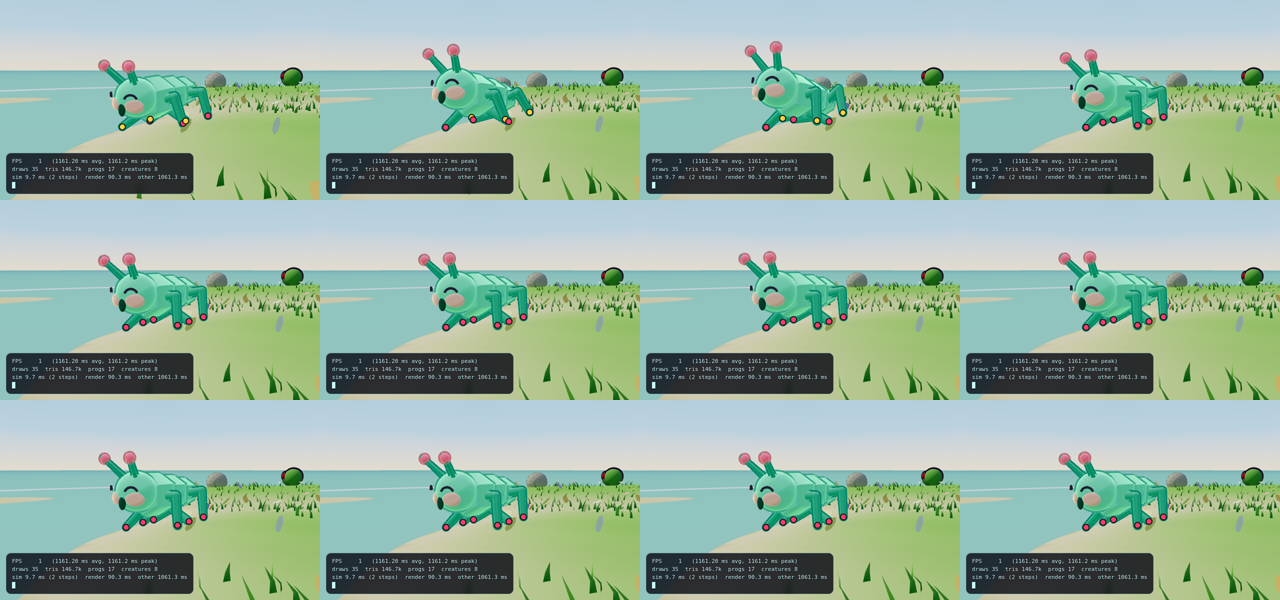
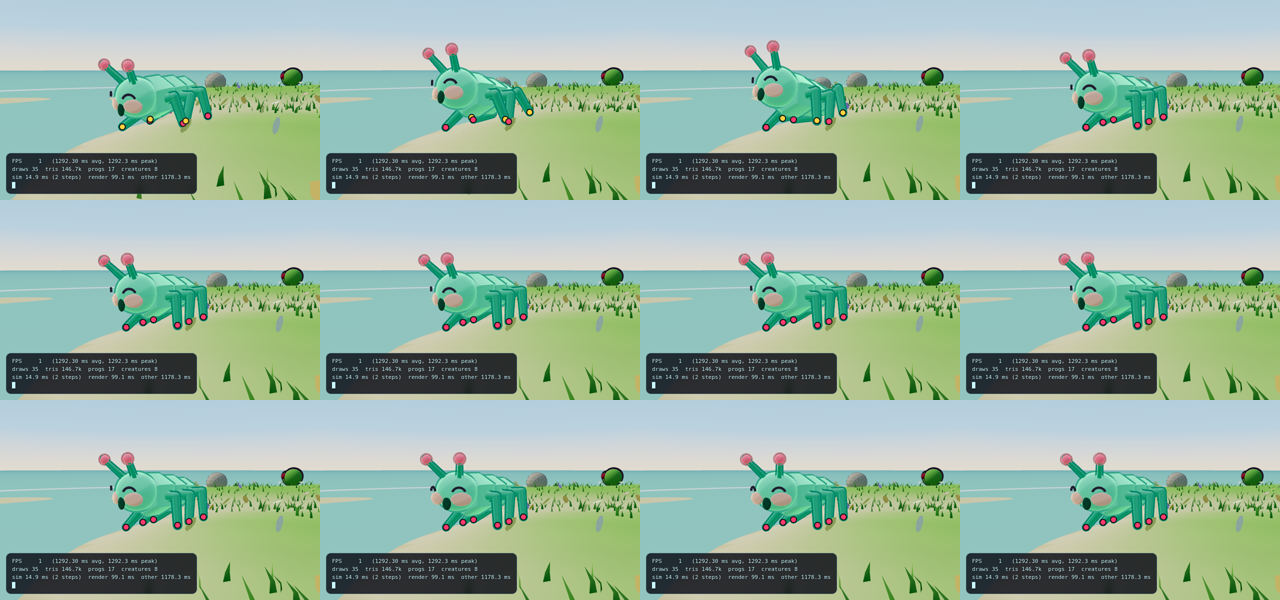
watch: 2026-10-02 13:31:47

diff --git a/watch/REPORT.md b/watch/REPORT.md
@@ -1,67 +1,67 @@
 ```
 # WATCH REPORT
-date 2026-10-02T05:27:36.301Z
-badge build v14 · 2026-10-02 09:26
+date 2026-10-02T09:30:46.164Z
+badge build v15 · 2026-10-02 13:29
 
 ## PEDESTAL
   quat 8.88e-16 pos 0.00e+0 -> PASS
 
 ## STRAIGHT WALK PROBE (8 s each)
-  PIP    slip 3.23 cm | overstretch 5/480 | speed 0.873 | freq 3 Hz
-  MOCHI  slip 7.98 cm | overstretch 48/480 | speed 0.875 | freq 3 Hz
+  PIP    slip 3.56 cm | overstretch 8/480 | speed 0.873 | freq 3 Hz
+  MOCHI  slip 8.84 cm | overstretch 43/480 | speed 0.875 | freq 3 Hz
   BOP    slip 0.00 cm | overstretch 0/480 | speed 2.762 | freq 2.5 Hz
-  ZIK    slip 0.18 cm | overstretch 1/480 | speed 1.128 | freq 3 Hz
+  ZIK    slip 0.20 cm | overstretch 0/480 | speed 1.128 | freq 3 Hz
 
 ## JOINT PROBE (20 s)
-  PIP    185.20 rad/s on hip_r [FORCED STEP]
-  MOCHI  187.12 rad/s on hip_bl [FORCED STEP]
-  ZIK    186.94 rad/s on hip_rear_l [FORCED STEP]
+  PIP    40.00 rad/s on ankle_r [FORCED STEP]
+  MOCHI  40.00 rad/s on knee_bl [FORCED STEP]
+  ZIK    40.00 rad/s on hip_mid_r [FORCED STEP]
 
 ## FREE-RUNNING WORLD (30 s, all creatures, real behaviour)
   creatures 8 | overlap frames 0/900 | closest pair 1.20x personal space
-  PIP    lifts: beat 79 reach 34 strain 92 catch-up 38 | max planted IK miss 10.27 cm | crouch 4.6 cm
-  MOCHI  lifts: beat 22 reach 41 strain 84 catch-up 92 | max planted IK miss 5.94 cm | crouch 4.1 cm
+  PIP    lifts: beat 85 reach 26 strain 112 catch-up 32 | max planted IK miss 12.34 cm | crouch 10.2 cm
+  MOCHI  lifts: beat 21 reach 34 strain 89 catch-up 80 | max planted IK miss 9.07 cm | crouch 4.8 cm
   BOP    lifts: beat 0 reach 0 strain 0 catch-up 0 | max planted IK miss 0.00 cm | crouch 0.0 cm
-  ZIK    lifts: beat 226 reach 63 strain 157 catch-up 86 | max planted IK miss 5.94 cm | crouch 1.4 cm
+  ZIK    lifts: beat 225 reach 54 strain 153 catch-up 66 | max planted IK miss 5.62 cm | crouch 1.5 cm
 
 ## SLIP FORENSICS (stances that slid > 1 cm)
-  PIP    n 70 | in action 100% | one-frame pop 100% | ended by forced lift 100% | max hip-foot/reach 0.96 | max IK miss 10.3 cm | max post-limiter miss 10.3 cm
-  MOCHI  n 61 | in action 100% | one-frame pop 92% | ended by forced lift 97% | max hip-foot/reach 0.94 | max IK miss 5.9 cm | max post-limiter miss 5.9 cm
-  ZIK    n 30 | in action 97% | one-frame pop 100% | ended by forced lift 97% | max hip-foot/reach 0.98 | max IK miss 5.9 cm | max post-limiter miss 14.1 cm
-    ZIK leg 5: slip 21.6 jump 21.5 cm | reach 0.91 | IK 0.8 post 0.8 cm | ACTION | beat
-    ZIK leg 3: slip 14.0 jump 14.6 cm | reach 0.95 | IK 5.9 post 14.1 cm | ACTION | forced
-    ZIK leg 0: slip 12.2 jump 11.8 cm | reach 0.86 | IK 0.6 post 0.6 cm | ACTION | forced
-    PIP leg 1: slip 10.1 jump 10.1 cm | reach 0.91 | IK 10.3 post 10.3 cm | ACTION | forced
-    ZIK leg 3: slip 9.9 jump 9.9 cm | reach 0.79 | IK 5.6 post 9.9 cm | ACTION | forced
-    ZIK leg 5: slip 8.7 jump 8.7 cm | reach 0.72 | IK 0.2 post 0.2 cm | ACTION | forced
-    PIP leg 0: slip 8.3 jump 8.1 cm | reach 0.79 | IK 8.7 post 8.7 cm | ACTION | forced
-    PIP leg 0: slip 8.3 jump 8.1 cm | reach 0.79 | IK 8.7 post 8.7 cm | ACTION | forced
-  PIP    LEG joint max 62.6 rad/s on hip_l(plant) | leg frames >20: 110
-  MOCHI  LEG joint max 93.6 rad/s on hip_br(plant) | leg frames >20: 170
-  ZIK    LEG joint max 87.4 rad/s on hip_mid_l(plant) | leg frames >20: 169
-  PIP    stances 291 | slip avg 0.72 cm worst 10.09 cm | stances >1cm 70 | max joint 90.8 rad/s on body | frames >20 rad/s 103 | moving 48%
-  MOCHI  stances 348 | slip avg 0.47 cm worst 7.82 cm | stances >1cm 61 | max joint 94.2 rad/s on hip_br | frames >20 rad/s 91 | moving 18%
-  BOP    stances 0 | slip avg 0.00 cm worst 0.00 cm | stances >1cm 0 | max joint 13.5 rad/s on head | frames >20 rad/s 0 | moving 41%
-  ZIK    stances 659 | slip avg 0.35 cm worst 21.62 cm | stances >1cm 30 | max joint 93.6 rad/s on hip_rear_r | frames >20 rad/s 63 | moving 40%
+  PIP    n 86 | in action 100% | one-frame pop 100% | ended by forced lift 100% | max hip-foot/reach 0.95 | max IK miss 12.3 cm | max post-limiter miss 12.3 cm
+  MOCHI  n 58 | in action 100% | one-frame pop 93% | ended by forced lift 100% | max hip-foot/reach 0.95 | max IK miss 9.1 cm | max post-limiter miss 9.1 cm
+  ZIK    n 28 | in action 96% | one-frame pop 100% | ended by forced lift 100% | max hip-foot/reach 0.99 | max IK miss 5.6 cm | max post-limiter miss 13.7 cm
+    ZIK leg 4: slip 13.5 jump 13.7 cm | reach 0.91 | IK 4.8 post 13.7 cm | ACTION | forced
+    PIP leg 1: slip 11.9 jump 11.9 cm | reach 0.93 | IK 12.3 post 12.3 cm | ACTION | forced
+    ZIK leg 2: slip 10.8 jump 11.3 cm | reach 0.91 | IK 5.6 post 10.8 cm | ACTION | forced
+    PIP leg 0: slip 8.7 jump 8.6 cm | reach 0.82 | IK 8.8 post 8.8 cm | ACTION | forced
+    MOCHI leg 3: slip 8.7 jump 7.8 cm | reach 0.92 | IK 9.1 post 9.1 cm | ACTION | forced
+    PIP leg 1: slip 6.9 jump 6.9 cm | reach 0.88 | IK 7.2 post 7.2 cm | ACTION | forced
+    MOCHI leg 2: slip 6.8 jump 6.3 cm | reach 0.92 | IK 7.0 post 7.0 cm | ACTION | forced
+    PIP leg 0: slip 6.5 jump 5.8 cm | reach 0.90 | IK 6.8 post 6.8 cm | ACTION | forced
+  PIP    LEG joint max 38.0 rad/s on knee_r(plant) | leg frames >20: 67
+  MOCHI  LEG joint max 34.6 rad/s on knee_br(plant) | leg frames >20: 20
+  ZIK    LEG joint max 40.0 rad/s on knee_rear_l(plant) | leg frames >20: 21
+  PIP    stances 282 | slip avg 0.88 cm worst 11.92 cm | stances >1cm 86 | max joint 83.1 rad/s on body | frames >20 rad/s 61 | moving 50%
+  MOCHI  stances 284 | slip avg 0.56 cm worst 8.69 cm | stances >1cm 58 | max joint 34.6 rad/s on knee_br | frames >20 rad/s 15 | moving 18%
+  BOP    stances 0 | slip avg 0.00 cm worst 0.00 cm | stances >1cm 0 | max joint 15.6 rad/s on head | frames >20 rad/s 0 | moving 45%
+  ZIK    stances 630 | slip avg 0.29 cm worst 13.50 cm | stances >1cm 28 | max joint 40.0 rad/s on knee_rear_l | frames >20 rad/s 10 | moving 40%
 
 ## VERDICT
-  PIP    feet SLIDE (worst 10.1 cm, 24% of steps) | knees SNAP (185 rad/s)
-  MOCHI  feet SLIDE (worst 7.8 cm, 18% of steps) | knees SNAP (187 rad/s)
+  PIP    feet SLIDE (worst 11.9 cm, 30% of steps) | knees SNAP (83 rad/s)
+  MOCHI  feet SLIDE (worst 8.7 cm, 20% of steps) | knees SNAP (40 rad/s)
   BOP    feet no steps seen | knees OK
-  ZIK    feet SLIDE (worst 21.6 cm, 5% of steps) | knees SNAP (187 rad/s)
+  ZIK    feet SLIDE (worst 13.5 cm, 4% of steps) | knees SNAP (40 rad/s)
   overlap NONE
   console errors 0
 
 ## GATES
-  FAIL  PIP worst slip <= 2 cm         10.09 cm
-  FAIL  PIP steps >1 cm <= 2%          24.1%
-  FAIL  PIP leg joint <= 20 rad/s      62.6 on hip_l(plant)
-  FAIL  MOCHI worst slip <= 2 cm       7.82 cm
-  FAIL  MOCHI steps >1 cm <= 2%        17.5%
-  FAIL  MOCHI leg joint <= 20 rad/s    93.6 on hip_br(plant)
-  FAIL  ZIK worst slip <= 2 cm         21.62 cm
-  FAIL  ZIK steps >1 cm <= 2%          4.6%
-  FAIL  ZIK leg joint <= 20 rad/s      87.4 on hip_mid_l(plant)
+  FAIL  PIP worst slip <= 2 cm         11.92 cm
+  FAIL  PIP steps >1 cm <= 2%          30.5%
+  FAIL  PIP leg joint <= 20 rad/s      38.0 on knee_r(plant)
+  FAIL  MOCHI worst slip <= 2 cm       8.69 cm
+  FAIL  MOCHI steps >1 cm <= 2%        20.4%
+  FAIL  MOCHI leg joint <= 20 rad/s    34.6 on knee_br(plant)
+  FAIL  ZIK worst slip <= 2 cm         13.50 cm
+  FAIL  ZIK steps >1 cm <= 2%          4.4%
+  FAIL  ZIK leg joint <= 20 rad/s      40.0 on knee_rear_l(plant)
   PASS  overlap frames = 0             0
   PASS  console errors = 0             0
 ```
